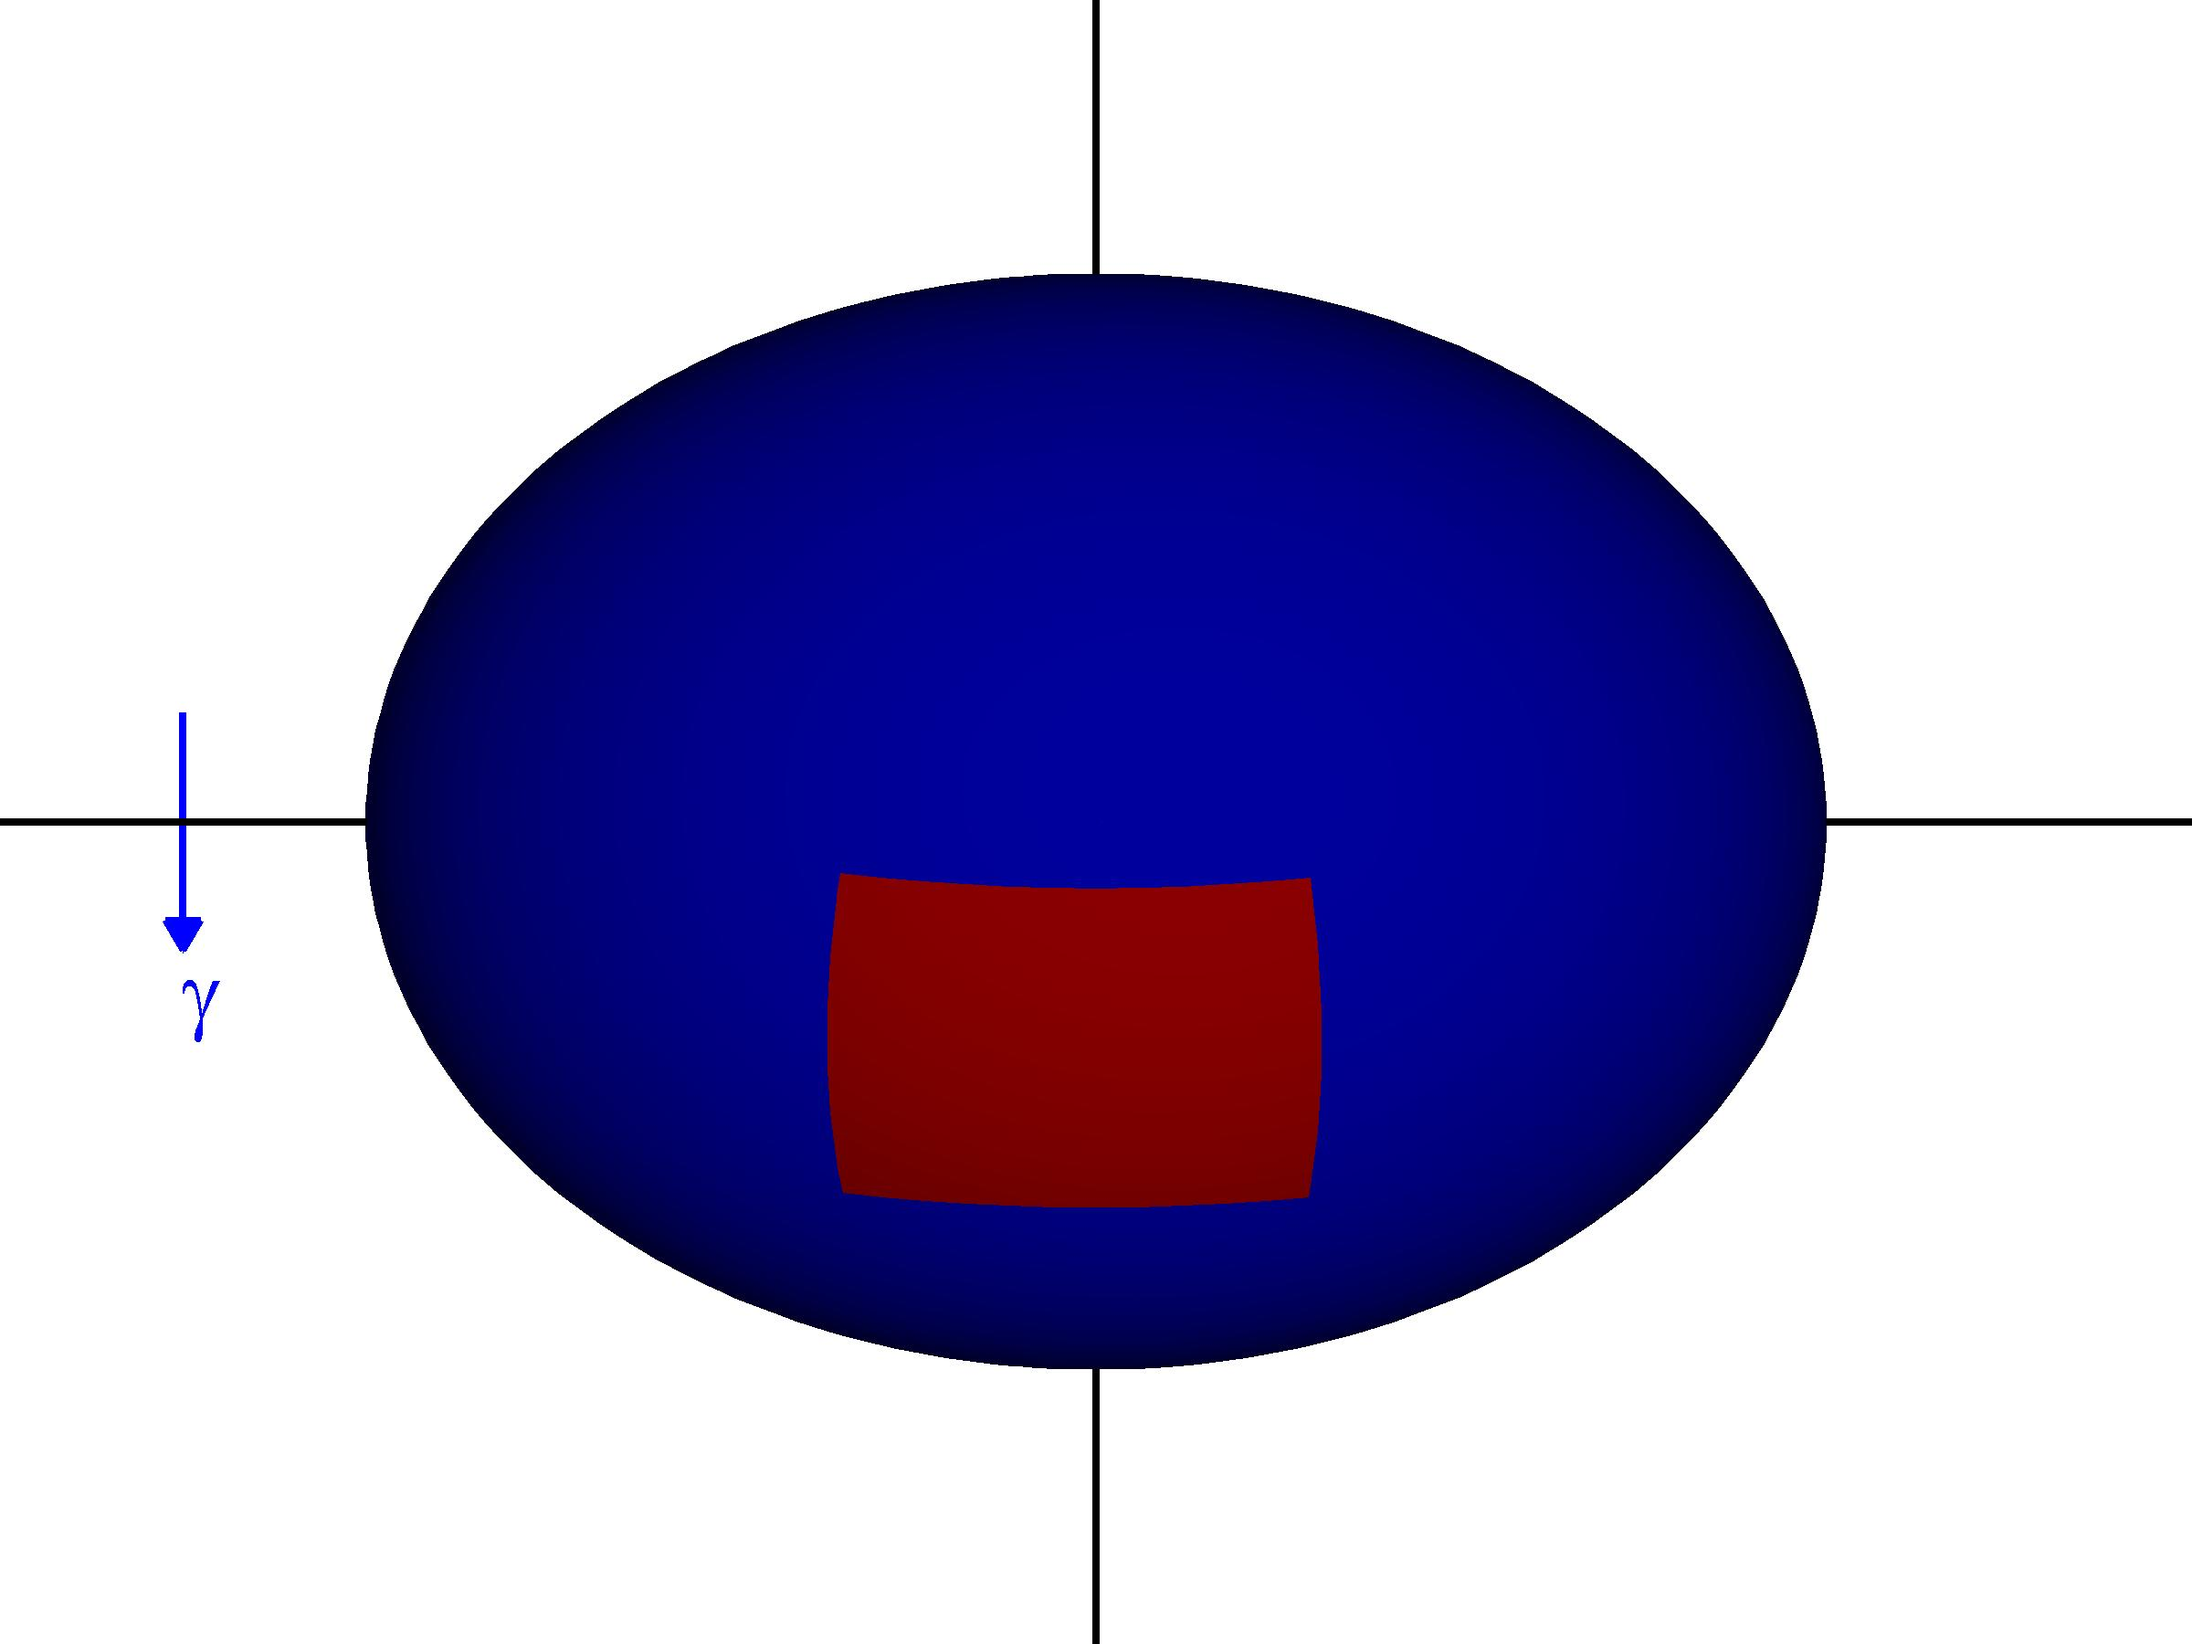
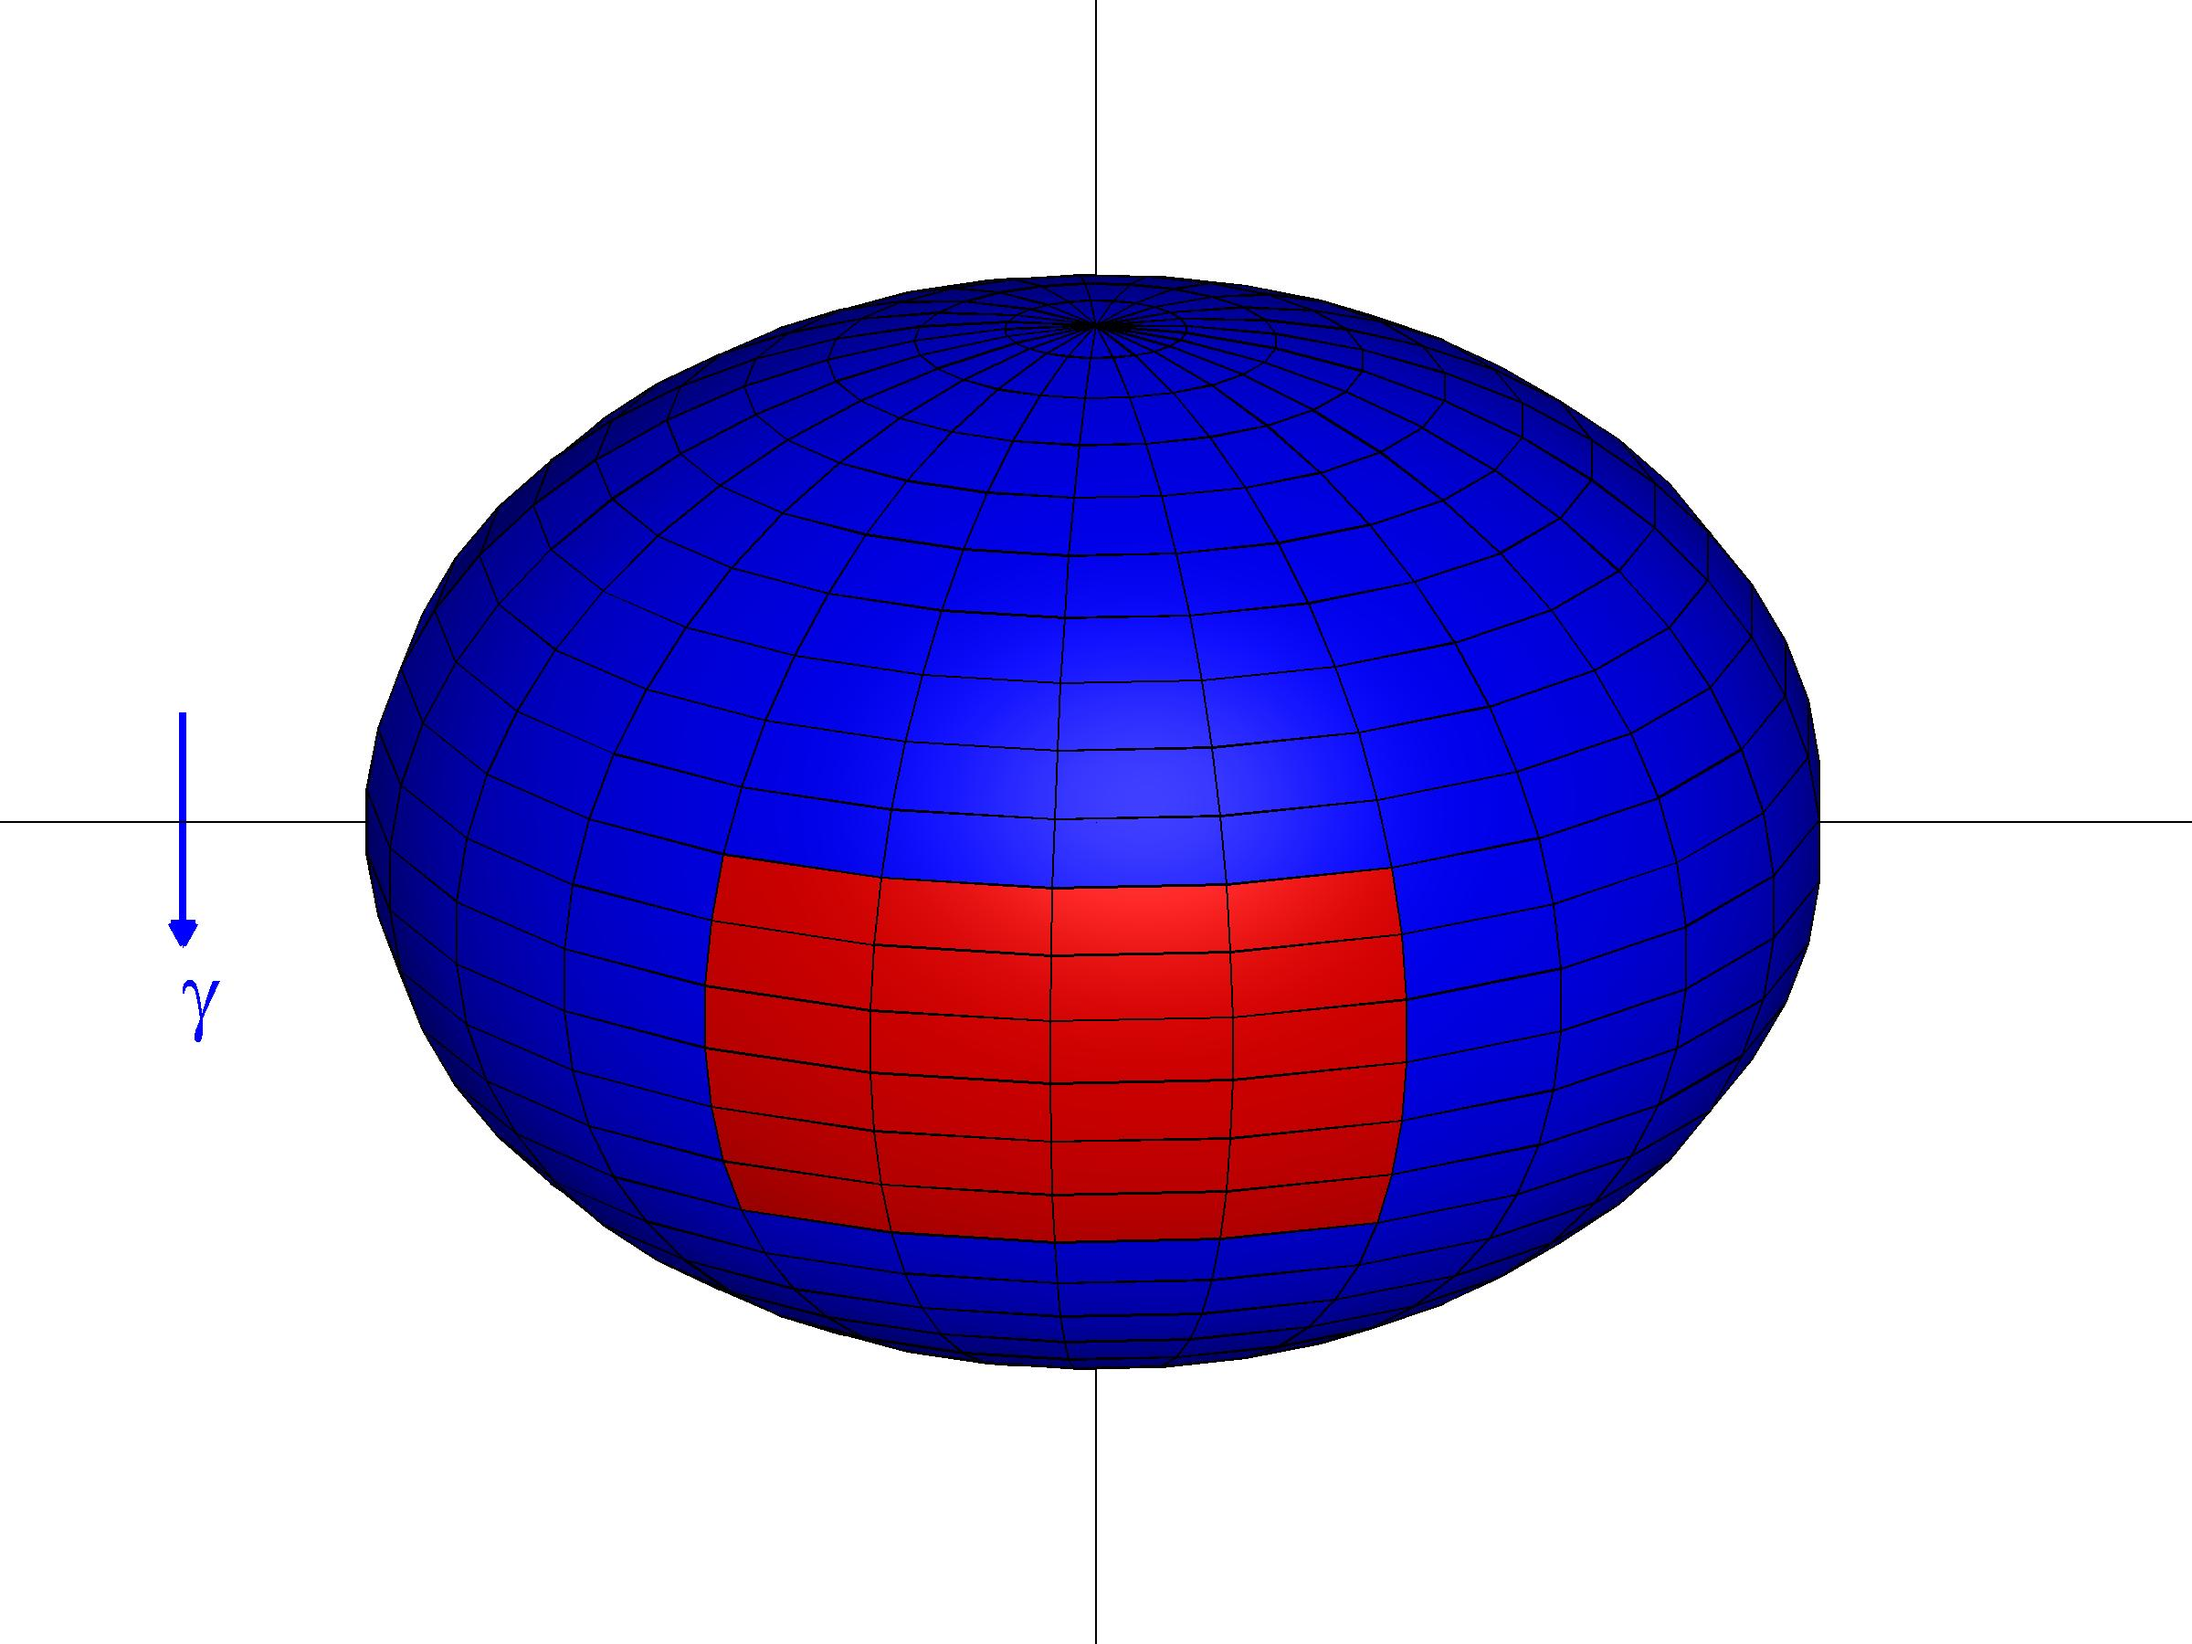
updated sphere pictures

diff --git a/image_analysis_paper/make_sphere.m b/image_analysis_paper/make_sphere.m
@@ -10,12 +10,14 @@ fmt = '-djpeg';
 
 im_save_dir = 'paper_figures';
 
-n = 100;
+n = 25;
 
 [X, Y, Z] = sphere(n);
 
 C = zeros(size(X));
 C(round(0.4*n):round(0.6*n), round(0.2*n):round(0.3*n)) = 1;
+%C = Z;
+%C(round(0.4*n):round(0.6*n), round(0.2*n):round(0.3*n)) = -2;
 
 v0 = [0 0];
 v1 = [-1.5 1.5];
@@ -31,11 +33,17 @@ r1 = 1.25;
 for i=1:4
     figure;
     set(gcf, 'papersize', [0.1 0.1])
-    h = surf(X, Y, Z, C, 'edgecolor','none');
+    h = surf(X, Y, Z, C, 'edgecolor','k');
     set(gca,'position',[0 0 1 1],'units','normalized')
     camlight(45, -20);
     lighting phong
-    material dull
+    %material dull
+    set(h, 'diffusestrength', 1.0);
+    set(h, 'specularstrength', 0.25);
+    %set(gca, 'ambientlightcolor', [1 0 0]);
+    set(h, 'AmbientStrength', 0.7);
+    %set(h, 'SpecularColorReflectance', 0.25);
+    %set(h, 'SpecularExponent', 5.0);
     
     axis off
     hold on
@@ -72,12 +80,18 @@ figure;
 for i=1:4
     figure;
     set(gcf, 'papersize', [1 1])
-    h = surf(X, Y, Z, C, 'edgecolor','none');
+    h = surf(X, Y, Z, C, 'edgecolor','k');
     set(gca,'position',[0 0 1 1],'units','normalized')
     
     camlight(45, -20);
     lighting phong
-    material dull
+    %material dull
+    set(h, 'diffusestrength', 1.0);
+    set(h, 'specularstrength', 0.25);
+    %set(gca, 'ambientlightcolor', [1 0 0]);
+    set(h, 'AmbientStrength', 0.7);
+    %set(h, 'SpecularColorReflectance', 0.25);
+    %set(h, 'SpecularExponent', 5.0);
     
     axis off
     hold on
